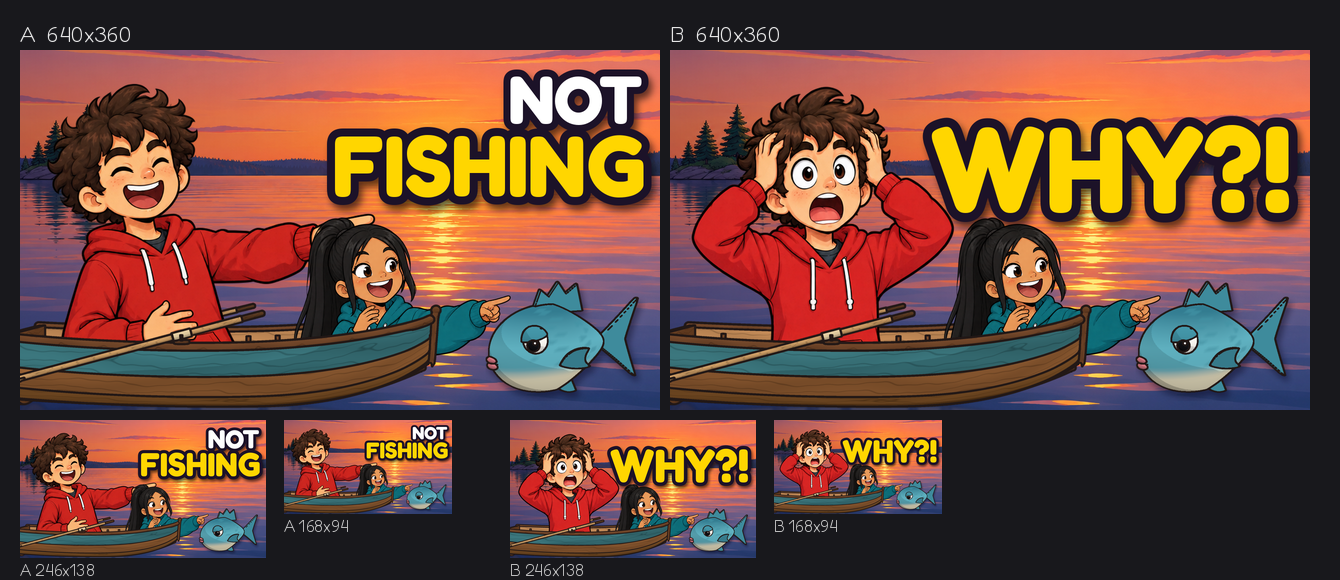
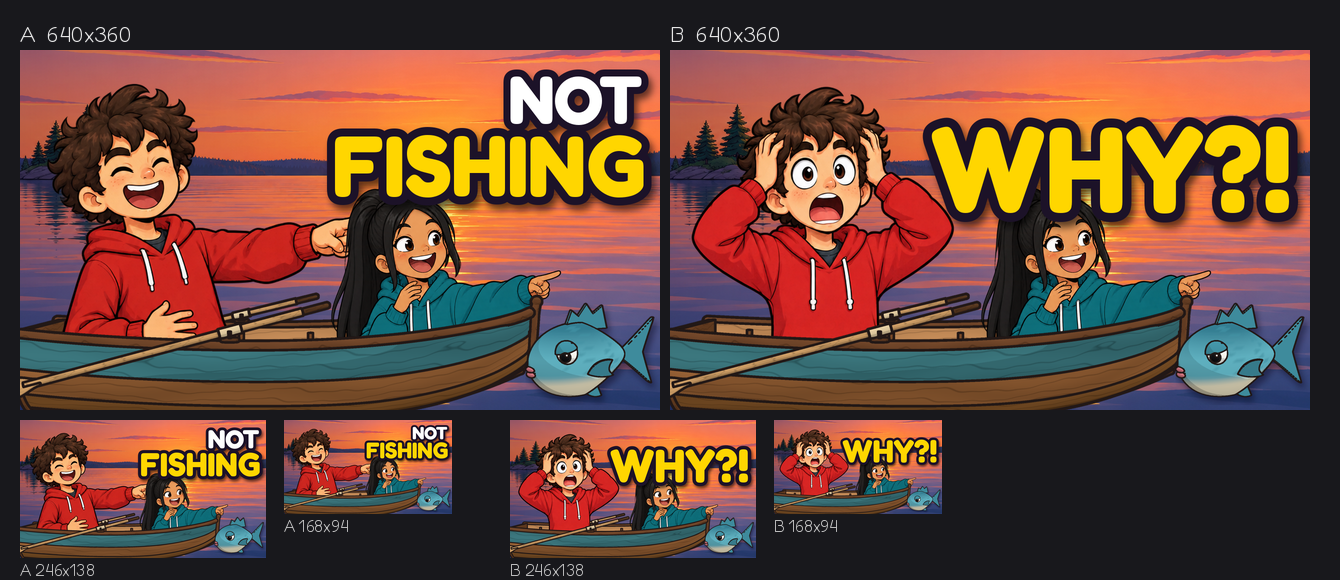
EP003 thumbnails: Pixie on her own seat inside a longer hull, clear of Quest's arm, pointing at the fish
Claude-Session: https://claude.ai/code/session_013Z5PXa5Rnwzzq1ezg66xG5

diff --git a/secondquest/docs/publish/EP003/thumbnails/make_thumbs.py b/secondquest/docs/publish/EP003/thumbnails/make_thumbs.py
@@ -68,9 +68,9 @@ def compose(variant):
     c = background()
     waterline = 330 + 0
     boat_back, boat_front = img(P3 / 'rowboat_side_back.png'), img(P3 / 'rowboat_side_front.png')
-    bw = 1020
+    bw = 1230                                                  # longer hull: Pixie has her own seat inside it
     bb, bf = scaled(boat_back, width=bw), scaled(boat_front, width=bw)
-    bx, by = -170, 498
+    bx, by = -175, 476
     # shadow/reflection of the boat on the water
     refl = ImageChops.offset(bb.transpose(Image.FLIP_TOP_BOTTOM), 0, 0)
     refl.putalpha(refl.split()[3].point(lambda v: int(v * .22)))
@@ -83,8 +83,8 @@ def compose(variant):
     qs = scaled(q, height=qh)
     qx, qy = (-91, 58) if variant == 'A' else (-120, 58)
     paste(crew, qs, qx, qy)
-    p = scaled(img(PIXIE), height=850)
-    px, py = 470, 322
+    p = scaled(img(PIXIE), height=900)
+    px, py = 540, 262                                          # her own seat, clear of Quest's arm (Producer, 2026-10-17)
     paste(crew, p, px, py)
     clip = by + int(bb.height * 0.66)
     crew.paste((0, 0, 0, 0), (0, clip, W, H))
@@ -92,8 +92,8 @@ def compose(variant):
     paste(c, bf, bx, by)
     # hull highlight line stays as drawn; the fish: our v2 deadpan, flipped to face the camera/Quest
     fish = img(P3 / 'fish2_34_deadpan.png').transpose(Image.FLIP_LEFT_RIGHT)
-    fs = scaled(fish, width=320)
-    paste(c, fs, 925, 455, shadow=6)
+    fs = scaled(fish, width=270)
+    paste(c, fs, 1005, 500, shadow=6)
     # words
     if variant == 'A':
         outlined(c, 'NOT', (1245, 14), 136, (255, 255, 255), anchor='ra')
